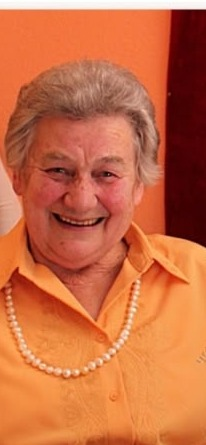
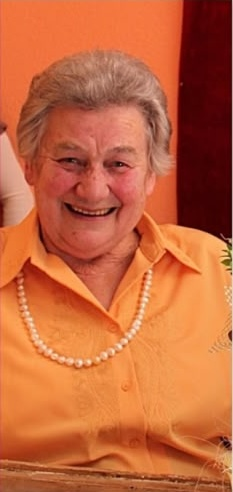
ui: neue sauber ausgeschnittene bilder, medaillon zentriert, 'heute' entfernt

diff --git a/index.html b/index.html
@@ -95,7 +95,7 @@
   .medaillon{
     position:relative;width:96px;height:96px;border-radius:50%;
     margin:6px auto 12px;
-    background:url("assets/portrait_aktuell.jpg") center 22% / cover no-repeat;
+    background:url("assets/portrait_aktuell.jpg") center 12% / cover no-repeat;
     box-shadow:
       0 0 0 1px rgba(168,128,58,.55),
       0 0 0 4px var(--creme-hell),
@@ -108,12 +108,6 @@
     from{opacity:0;transform:scale(.7) rotate(-10deg)}
     to{opacity:1;transform:scale(1) rotate(0)}
   }
-  .med-jahr{
-    position:absolute;left:50%;bottom:-19px;transform:translateX(-50%);
-    font-family:'Great Vibes',cursive;font-size:20px;color:var(--bordeaux);
-    line-height:1;white-space:nowrap;
-  }
-
   .kicker-i{
     font-family:'Cormorant Garamond',serif;font-style:italic;font-weight:500;
     color:var(--bordeaux);font-size:20px;text-align:center;letter-spacing:.5px;
@@ -247,7 +241,7 @@
     height:58%;
     background-image:url("assets/portrait_jugend.jpg");
     background-size:cover;
-    background-position:center 22%;
+    background-position:center 18%;
     filter: sepia(.55) contrast(1.05) brightness(.96) saturate(.85);
   }
   .hero::after{
@@ -372,7 +366,7 @@
     <!-- Innenseite (Text) -->
     <div class="innen">
       <button class="schliessen" id="schliessen" type="button" aria-label="Karte zuklappen">×</button>
-      <div class="medaillon" aria-hidden="true"><span class="med-jahr">heute</span></div>
+      <div class="medaillon" aria-hidden="true"></div>
       <div class="kicker-i">herzliche</div>
       <div class="h-einladung">EINLADUNG</div>
       <div class="zierlinie"></div>
